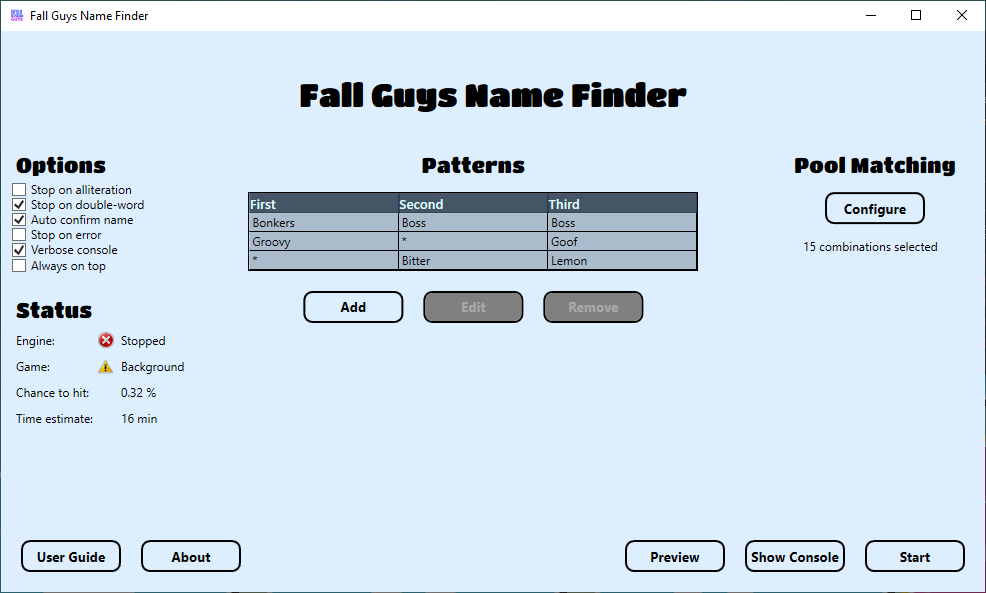
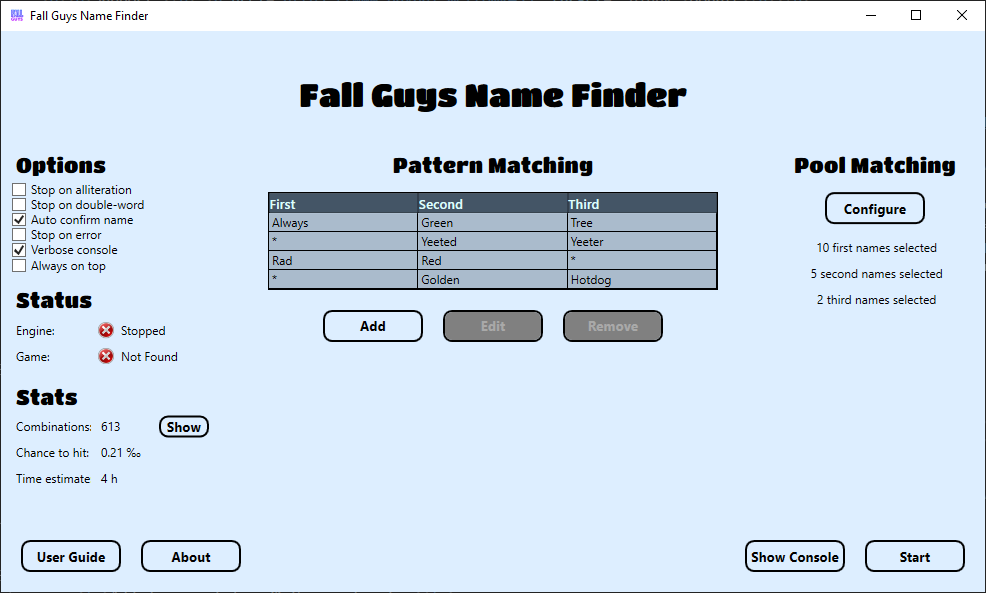
restructure UI

diff --git a/FallGuysNameFinder/MainWindow.xaml b/FallGuysNameFinder/MainWindow.xaml
@@ -14,7 +14,6 @@
         <DockPanel DockPanel.Dock="Bottom">
             <Button DockPanel.Dock="Right" Style="{DynamicResource MyButton}" Name="StartStop" Content="{Binding StartStopButtonDesc}" Margin="10" Width="100" HorizontalAlignment="Right" Click="StartStop_Click" />
             <Button DockPanel.Dock="Right" Style="{DynamicResource MyButton}" Name="ShowConsole" Content="{Binding ShowConsoleButtonDesc}" Margin="10" Width="100" HorizontalAlignment="Stretch" Click="ShowConsole_Click" />
-            <Button DockPanel.Dock="Right" Style="{DynamicResource MyButton}" Name="PreviewButton" Content="Preview" Margin="10" Width="100" HorizontalAlignment="Stretch" Click="Preview_Click" ToolTip="Shows all names that match your settings." IsEnabled="{Binding ProbabilityIsCalcing, Converter={StaticResource InvertedBool}}"/>
             <Button DockPanel.Dock="Left" Style="{DynamicResource MyButton}" Name="Help" Content="User Guide" Margin="10" Width="100" HorizontalAlignment="Stretch" Click="Help_Click" />
             <Button DockPanel.Dock="Left" Style="{DynamicResource MyButton}" Name="About" Content="About" Margin="10" Width="100" HorizontalAlignment="Stretch" Click="About_Click" />
 
@@ -62,16 +61,13 @@
                   Click="OnAlwaysOnTopClick" />
 
 
-            <Grid Margin="0, 20, 0, 20">
+            <Grid Margin="0, 10, 0, 10">
                 <Grid.ColumnDefinitions>
                     <ColumnDefinition Width="85"/>
                     <ColumnDefinition Width="20"/>
                     <ColumnDefinition Width="1*"/>
                 </Grid.ColumnDefinitions>
                 <Grid.RowDefinitions>
-                    <RowDefinition Height="Auto" />
-                    <RowDefinition Height="Auto" />
-                    <RowDefinition Height="Auto" />
                     <RowDefinition Height="Auto" />
                     <RowDefinition Height="Auto" />
                     <RowDefinition Height="Auto" />
@@ -99,32 +95,59 @@
                            Width="16" Height="16" />
                 <Label Grid.Row="2" Grid.Column="2"
                        Content="{Binding FgStatusDescription}" />
+            </Grid>
 
-                <Label Grid.Row="3" Grid.Column="0" Grid.ColumnSpan="2"
-                       ToolTip="The amount of names that match your settings. Use the preview button to inspect them."
-                       Content="Combinations:" />
-                <Label Grid.Row="3" Grid.Column="2"
-                       ToolTip="The amount of names that match your settings. Use the preview button to inspect them."
-                       Content="{Binding SelectedCombinations}" />
-
-                <Label Grid.Row="4" Grid.Column="0" Grid.ColumnSpan="2"
-                       Content="Chance to hit:" />
-                <Label Grid.Row="4" Grid.Column="2"
-                       Content="{Binding ChanceToHit}" />
+            <Grid Margin="0, 0, 0, 20">
+                <Grid.ColumnDefinitions>
+                    <ColumnDefinition Width="85"/>
+                    <ColumnDefinition Width="1*"/>
+                </Grid.ColumnDefinitions>
+                <Grid.RowDefinitions>
+                    <RowDefinition Height="Auto" />
+                    <RowDefinition Height="Auto" />
+                    <RowDefinition Height="Auto" />
+                    <RowDefinition Height="Auto" />
+                    <RowDefinition Height="Auto" />
+                </Grid.RowDefinitions>
+                <Label Grid.Row="0" Grid.ColumnSpan="2"
+                    Content="Stats" FontSize="16pt" FontWeight="Regular" FontFamily="{StaticResource FGFont}" />
                 
-                <Label Grid.Row="5" Grid.Column="0" Grid.ColumnSpan="2"
+                <Label Grid.Row="1" Grid.Column="0" Grid.ColumnSpan="1"
+                       ToolTip="The amount of names that match your settings. Use the show-button to inspect them."
+                       Content="Combinations:" />
+                <Grid Grid.Row="1" Grid.Column="1" HorizontalAlignment="Stretch">
+                    <Label HorizontalAlignment="Left"
+                       ToolTip="The amount of names that match your settings. Use the show-button to inspect them."
+                       Content="{Binding SelectedCombinations}" />
+                    <Button Grid.Row="1" Grid.Column="1" Grid.ColumnSpan="1" HorizontalAlignment="Right" VerticalAlignment="Top"
+                        DockPanel.Dock="Right" Style="{DynamicResource MyButton}" Name="ShowButton" Content="Show"
+                        Width="50" Height="22" Click="Show_Click"
+                        ToolTip="Shows all names that match your settings. File output is cropped at 64MB."
+                        IsEnabled="{Binding ProbabilityIsCalcing, Converter={StaticResource InvertedBool}}"/>
+                </Grid>
+
+
+                <Label Grid.Row="3" Grid.Column="0" Grid.ColumnSpan="1"
+                       Content="Chance to hit:" />
+                <Label Grid.Row="3" Grid.Column="1"
+                       Content="{Binding ChanceToHit}" />
+
+                <Label Grid.Row="4" Grid.Column="0" Grid.ColumnSpan="1"
                        ToolTip="Note: This is a statistical value. Regardless of this value, you can get it on first try, or never."
                        Content="Time estimate:" />
-                <Label Grid.Row="5" Grid.Column="2"
+                <Label Grid.Row="4" Grid.Column="1"
                        ToolTip="Note: This is a statistical value. Regardless of this value, you can get it on first try, or never."
                        Content="{Binding TimeEstimate}" />
+
             </Grid>
         </StackPanel>
         
         <StackPanel Orientation="Vertical" DockPanel.Dock="Right" Width="200">
             <Label Content="Pool Matching" FontSize="16pt" FontWeight="Regular" HorizontalAlignment="Center" FontFamily="{StaticResource FGFont}" />
             <Button Style="{DynamicResource MyButton}" Name="EditPools" Content="Configure" Margin="10" Width="100" HorizontalAlignment="Center"  Click="EditPools_Click" />
-            <Label Content="{Binding PoolOptionsActive}" HorizontalAlignment="Center"/>
+            <Label Content="{Binding PoolOptions1}" ContentStringFormat=" {0} first names selected" HorizontalAlignment="Center"/>
+            <Label Content="{Binding PoolOptions2}" ContentStringFormat=" {0} second names selected" HorizontalAlignment="Center"/>
+            <Label Content="{Binding PoolOptions3}" ContentStringFormat=" {0} third names selected" HorizontalAlignment="Center"/>
         </StackPanel>
         
         <StackPanel Orientation="Vertical" DockPanel.Dock="Right">

diff --git a/FallGuysNameFinder/PoolWindow.xaml b/FallGuysNameFinder/PoolWindow.xaml
@@ -18,7 +18,7 @@
 
         <StackPanel DockPanel.Dock="Bottom" Orientation="Horizontal" HorizontalAlignment="Right">
             <Button Style="{DynamicResource MyButton}" Name="CancelBtn" Content="Cancel" Margin="10" Width="100" HorizontalAlignment="Right"  Click="CancelBtn_Click" />
-            <Button Style="{DynamicResource MyButton}" Name="OkBtn" Content="Apply" Margin="10" Width="100" HorizontalAlignment="Right"  Click="OkBtn_Click" />
+            <Button Style="{DynamicResource MyButton}" Name="OkBtn" Content="Save" Margin="10" Width="100" HorizontalAlignment="Right"  Click="OkBtn_Click" />
         </StackPanel>
         
         <StackPanel Orientation="Horizontal" >

diff --git a/FallGuysNameFinder/doc/about.html b/FallGuysNameFinder/doc/about.html
@@ -35,6 +35,7 @@
     <h2>v2.0</h2>
     <ul>
         <li>Added pool matching</li>
+        <li>Added count of names that match</li>
         <li>Added preview output of names that match</li>
         <li>Added global error handler</li>
         <li>Added always-on-top option for single monitor users</li>

diff --git a/FallGuysNameFinder/ViewModel.cs b/FallGuysNameFinder/ViewModel.cs
@@ -7,6 +7,7 @@ using System.Drawing;
 
 namespace FallGuysNameFinder
 {
+    // todo: bindable base, etc pp, using model as viewmodel xD whatever.
     public class ViewModel : INotifyPropertyChanged
     {
         private ObservableCollection<Pattern> patterns;
@@ -18,9 +19,39 @@ namespace FallGuysNameFinder
         private string selectedCombinations;
         private string timeEstimate;
         private bool probabilityIsCalcing;
-        private int poolOptionsActiveAsNumber;
+        private int poolOptions1;
+        private int poolOptions2;
+        private int poolOptions3;
 
         public event PropertyChangedEventHandler PropertyChanged;
+
+        public int PoolOptions1
+        {
+            get => poolOptions1;
+            set
+            {
+                poolOptions1 = value;
+                PropertyChanged?.Invoke(this, new PropertyChangedEventArgs(nameof(PoolOptions1)));
+            }
+        }
+        public int PoolOptions2
+        {
+            get => poolOptions2;
+            set
+            {
+                poolOptions2 = value;
+                PropertyChanged?.Invoke(this, new PropertyChangedEventArgs(nameof(PoolOptions2)));
+            }
+        }
+        public int PoolOptions3
+        {
+            get => poolOptions3;
+            set
+            {
+                poolOptions3 = value;
+                PropertyChanged?.Invoke(this, new PropertyChangedEventArgs(nameof(PoolOptions3)));
+            }
+        }
 
         public string SelectedCombinations
         {
@@ -32,17 +63,6 @@ namespace FallGuysNameFinder
             }
         }
 
-
-        public int PoolOptionsActiveAsNumber
-        {
-            get => poolOptionsActiveAsNumber; set
-            {
-                poolOptionsActiveAsNumber = value;
-                PropertyChanged?.Invoke(this, new PropertyChangedEventArgs(nameof(PoolOptionsActive)));
-            }
-        }
-
-        public string PoolOptionsActive => $"{poolOptionsActiveAsNumber.ToString("n0")} pool combinations selected";
 
         public ObservableCollection<Pattern> Patterns
         {

diff --git a/FallGuysNameFinder/MainWindow.xaml.cs b/FallGuysNameFinder/MainWindow.xaml.cs
@@ -45,7 +45,10 @@ namespace FallGuysNameFinder
 
                 InitializeComponent();
                 this.Topmost = this.ViewModel.Options.AlwaysOnTop;
-                this.ViewModel.PoolOptionsActiveAsNumber = DataStorageStuff.GetStoredPool().Combinations;
+                var pool = DataStorageStuff.GetStoredPool();
+                this.ViewModel.PoolOptions1 = pool.First.Count();
+                this.ViewModel.PoolOptions2 = pool.Second.Count();
+                this.ViewModel.PoolOptions3 = pool.Third.Count();
 
 
                 SetupFallguysProcessChecker();
@@ -220,7 +223,7 @@ namespace FallGuysNameFinder
             RecalculateProbability();
         }
 
-        private void Preview_Click(object sender, RoutedEventArgs e)
+        private void Show_Click(object sender, RoutedEventArgs e)
         {
             var dinger = this.probabilitySerivce.AllNamesThatMatch.ToList();
             DataStorageStuff.CreatePreviewList(dinger);
@@ -286,7 +289,10 @@ namespace FallGuysNameFinder
             w.OnOkClick += (_, newPool) =>
             {
                 RecalculateProbability();
-                this.ViewModel.PoolOptionsActiveAsNumber = newPool.Combinations;
+                var pool = DataStorageStuff.GetStoredPool();
+                this.ViewModel.PoolOptions1 = newPool.First.Count();
+                this.ViewModel.PoolOptions2 = newPool.Second.Count();
+                this.ViewModel.PoolOptions3 = newPool.Third.Count();
             };
         }
 
